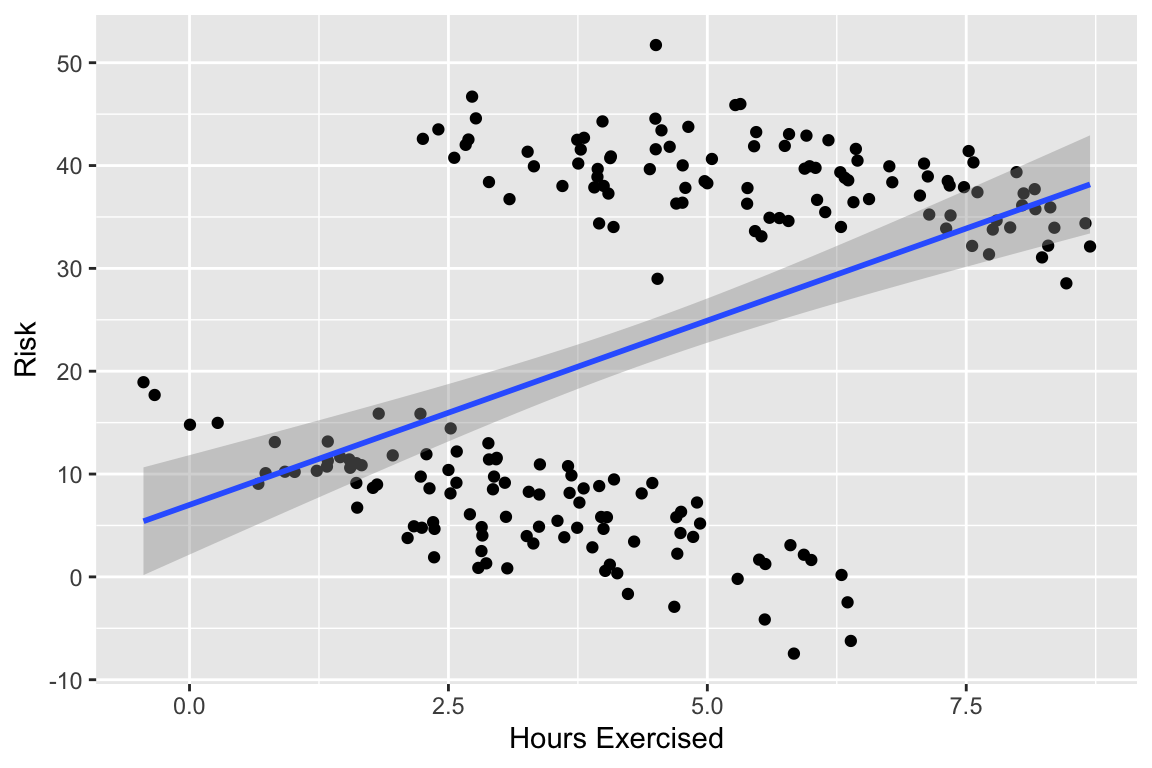
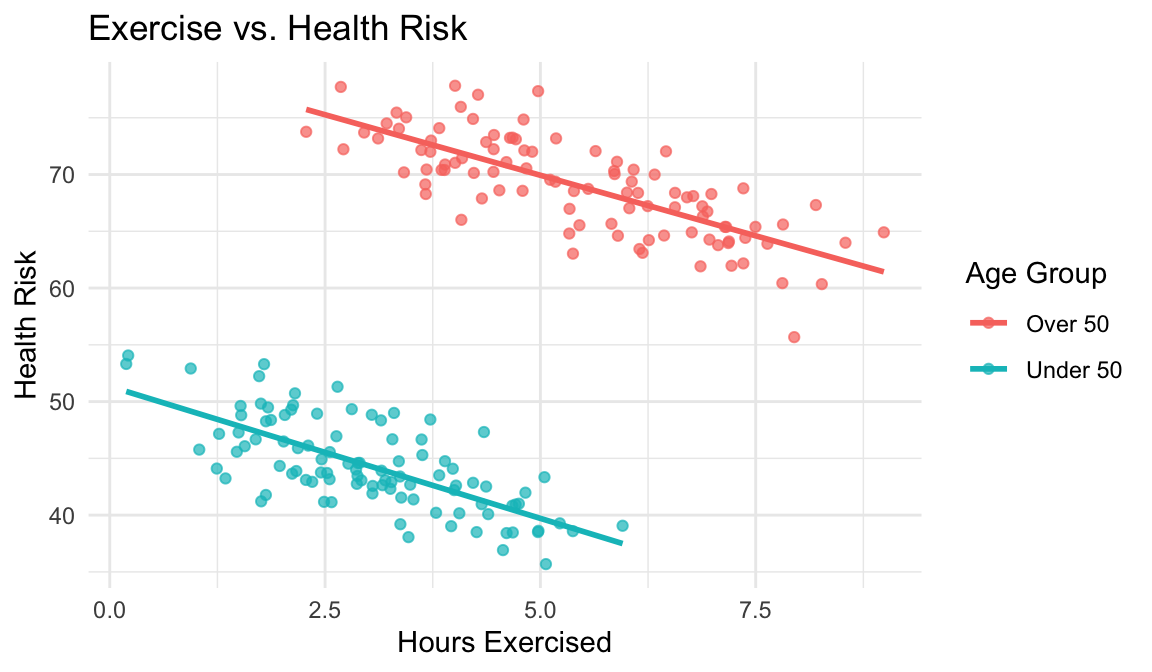
upload 5

diff --git a/docs/ObservationalStudies.html b/docs/ObservationalStudies.html
@@ -124,20 +124,21 @@ pre > code.sourceCode > span > a:first-child::before { text-decoration: underlin
   <li><a href="#relationships-between-variables" id="toc-relationships-between-variables" class="nav-link" data-scroll-target="#relationships-between-variables"><strong>3. Relationships Between Variables</strong></a></li>
   <li><a href="#modelling" id="toc-modelling" class="nav-link" data-scroll-target="#modelling"><strong>4. Modelling</strong></a></li>
   </ul></li>
-  <li><a href="#example-2-does-working-out-increase-energy-levels" id="toc-example-2-does-working-out-increase-energy-levels" class="nav-link" data-scroll-target="#example-2-does-working-out-increase-energy-levels">Example 2: Does working out increase energy levels?</a></li>
+  <li><a href="#example-2-does-working-out-increase-energy-levels" id="toc-example-2-does-working-out-increase-energy-levels" class="nav-link" data-scroll-target="#example-2-does-working-out-increase-energy-levels">Example 2: Does working out increase energy levels?</a>
+  <ul class="collapse">
   <li><a href="#confounding-variables" id="toc-confounding-variables" class="nav-link" data-scroll-target="#confounding-variables">Confounding variables</a></li>
-  <li><a href="#example-3" id="toc-example-3" class="nav-link" data-scroll-target="#example-3">Example 3</a>
+  </ul></li>
+  <li><a href="#example-3-pancreatic-cancer-study" id="toc-example-3-pancreatic-cancer-study" class="nav-link" data-scroll-target="#example-3-pancreatic-cancer-study">Example 3: Pancreatic Cancer Study</a>
   <ul class="collapse">
   <li><a href="#reducing-confounding-matching" id="toc-reducing-confounding-matching" class="nav-link" data-scroll-target="#reducing-confounding-matching">Reducing confounding: Matching</a></li>
   <li><a href="#reducing-confounding-multiple-regression" id="toc-reducing-confounding-multiple-regression" class="nav-link" data-scroll-target="#reducing-confounding-multiple-regression">Reducing confounding: Multiple Regression</a></li>
   </ul></li>
-  <li><a href="#conditional-probability" id="toc-conditional-probability" class="nav-link" data-scroll-target="#conditional-probability">Conditional Probability</a></li>
-  <li><a href="#conditional-probability-1" id="toc-conditional-probability-1" class="nav-link" data-scroll-target="#conditional-probability-1">Conditional Probability</a></li>
+  <li><a href="#example-4-restaurant-reviews" id="toc-example-4-restaurant-reviews" class="nav-link" data-scroll-target="#example-4-restaurant-reviews">Example 4: Restaurant Reviews</a></li>
   <li><a href="#whats-going-on" id="toc-whats-going-on" class="nav-link" data-scroll-target="#whats-going-on">What’s going on?</a></li>
-  <li><a href="#simpsons-paradox-correlation-reversal" id="toc-simpsons-paradox-correlation-reversal" class="nav-link" data-scroll-target="#simpsons-paradox-correlation-reversal">Simpsons’ Paradox: Correlation Reversal</a></li>
-  <li><a href="#example-continued" id="toc-example-continued" class="nav-link" data-scroll-target="#example-continued">Example Continued</a></li>
-  <li><a href="#resolving-the-paradox" id="toc-resolving-the-paradox" class="nav-link" data-scroll-target="#resolving-the-paradox">Resolving the Paradox</a></li>
-  <li><a href="#resolving-the-paradox-1" id="toc-resolving-the-paradox-1" class="nav-link" data-scroll-target="#resolving-the-paradox-1">Resolving the Paradox</a></li>
+  <li><a href="#example-5-exercise-and-disease" id="toc-example-5-exercise-and-disease" class="nav-link" data-scroll-target="#example-5-exercise-and-disease">Example 5: Exercise and Disease</a>
+  <ul class="collapse">
+  <li><a href="#explanation-of-the-paradox" id="toc-explanation-of-the-paradox" class="nav-link" data-scroll-target="#explanation-of-the-paradox">Explanation of the Paradox:</a></li>
+  </ul></li>
   </ul>
 </nav>
     </div>
@@ -204,6 +205,7 @@ pre > code.sourceCode > span > a:first-child::before { text-decoration: underlin
 </section>
 <section id="example-1-student-happiness" class="level2">
 <h2 class="anchored" data-anchor-id="example-1-student-happiness">Example 1: Student Happiness</h2>
+<p>The <code>gcfeeling</code> data contains results of a survey conducted by Georgetown College students on 47 Georgetown College upper-class students in relation to feelings about Georgetown College.</p>
 <div class="cell">
 <div class="sourceCode cell-code" id="cb1"><pre class="sourceCode r code-with-copy"><code class="sourceCode r"><span id="cb1-1"><a href="#cb1-1" aria-hidden="true" tabindex="-1"></a><span class="co"># Load necessary packages</span></span>
 <span id="cb1-2"><a href="#cb1-2" aria-hidden="true" tabindex="-1"></a><span class="fu">library</span>(tidyverse)</span>
@@ -227,7 +229,7 @@ $ happier      &lt;fct&gt; NO, YES, YES, YES, YES, YES, YES, NO, YES, NO, YES, Y
 </div>
 <section id="exploring-categorical-variables" class="level3">
 <h3 class="anchored" data-anchor-id="exploring-categorical-variables"><strong>1. Exploring Categorical Variables</strong></h3>
-<p>If <code>gcfeeling</code> contains categorical variables, we can visualize their distributions:</p>
+<p><code>gcfeeling</code> contains categorical variables. We can visualize their distributions:</p>
 <div class="cell">
 <div class="sourceCode cell-code" id="cb3"><pre class="sourceCode r code-with-copy"><code class="sourceCode r"><span id="cb3-1"><a href="#cb3-1" aria-hidden="true" tabindex="-1"></a><span class="co"># Count and visualize categorical variables</span></span>
 <span id="cb3-2"><a href="#cb3-2" aria-hidden="true" tabindex="-1"></a>gcfeeling <span class="sc">%&gt;%</span></span>
@@ -249,6 +251,7 @@ $ happier      &lt;fct&gt; NO, YES, YES, YES, YES, YES, YES, NO, YES, NO, YES, Y
 </section>
 <section id="exploring-numeric-variables" class="level3">
 <h3 class="anchored" data-anchor-id="exploring-numeric-variables"><strong>2. Exploring Numeric Variables</strong></h3>
+<p><code>gcfeeling</code> contains numeric variables. We can visualize their distributions:</p>
 <div class="cell">
 <div class="sourceCode cell-code" id="cb4"><pre class="sourceCode r code-with-copy"><code class="sourceCode r"><span id="cb4-1"><a href="#cb4-1" aria-hidden="true" tabindex="-1"></a><span class="co"># Check numeric variable distributions</span></span>
 <span id="cb4-2"><a href="#cb4-2" aria-hidden="true" tabindex="-1"></a>gcfeeling <span class="sc">%&gt;%</span></span>
@@ -268,38 +271,36 @@ $ happier      &lt;fct&gt; NO, YES, YES, YES, YES, YES, YES, NO, YES, NO, YES, Y
 </section>
 <section id="relationships-between-variables" class="level3">
 <h3 class="anchored" data-anchor-id="relationships-between-variables"><strong>3. Relationships Between Variables</strong></h3>
+<section id="contingency-table-for-categorical-variables" class="level4">
+<h4 class="anchored" data-anchor-id="contingency-table-for-categorical-variables"><strong>Contingency Table (For Categorical Variables)</strong></h4>
+<p>A contingency table shows the relationship between two categorical variables by displaying their frequency distribution.</p>
+<div class="cell">
+<div class="sourceCode cell-code" id="cb5"><pre class="sourceCode r code-with-copy"><code class="sourceCode r"><span id="cb5-1"><a href="#cb5-1" aria-hidden="true" tabindex="-1"></a>gcfeeling <span class="sc">%&gt;%</span></span>
+<span id="cb5-2"><a href="#cb5-2" aria-hidden="true" tabindex="-1"></a>  <span class="fu">select</span>(happier, athlete) <span class="sc">%&gt;%</span> </span>
+<span id="cb5-3"><a href="#cb5-3" aria-hidden="true" tabindex="-1"></a>  <span class="fu">table</span>()</span></code><button title="Copy to Clipboard" class="code-copy-button"><i class="bi"></i></button></pre></div>
+<div class="cell-output cell-output-stdout">
+<pre><code>       athlete
+happier  n  y
+    NO  10  1
+    YES 25 11</code></pre>
+</div>
+</div>
+</section>
 <section id="pairwise-correlation-for-numeric-variables" class="level4">
 <h4 class="anchored" data-anchor-id="pairwise-correlation-for-numeric-variables"><strong>Pairwise Correlation (For Numeric Variables)</strong></h4>
 <div class="cell">
-<div class="sourceCode cell-code" id="cb5"><pre class="sourceCode r code-with-copy"><code class="sourceCode r"><span id="cb5-1"><a href="#cb5-1" aria-hidden="true" tabindex="-1"></a><span class="co"># Compute correlation matrix</span></span>
-<span id="cb5-2"><a href="#cb5-2" aria-hidden="true" tabindex="-1"></a><span class="fu">cor</span>(gcfeeling<span class="sc">$</span>rating.fresh, gcfeeling<span class="sc">$</span>rating.js)</span></code><button title="Copy to Clipboard" class="code-copy-button"><i class="bi"></i></button></pre></div>
+<div class="sourceCode cell-code" id="cb7"><pre class="sourceCode r code-with-copy"><code class="sourceCode r"><span id="cb7-1"><a href="#cb7-1" aria-hidden="true" tabindex="-1"></a><span class="co"># Compute correlation matrix</span></span>
+<span id="cb7-2"><a href="#cb7-2" aria-hidden="true" tabindex="-1"></a><span class="fu">cor</span>(gcfeeling<span class="sc">$</span>rating.fresh, gcfeeling<span class="sc">$</span>rating.js)</span></code><button title="Copy to Clipboard" class="code-copy-button"><i class="bi"></i></button></pre></div>
 <div class="cell-output cell-output-stdout">
 <pre><code>[1] 0.402741</code></pre>
 </div>
 </div>
 </section>
 <section id="scatterplots-for-numeric-variables" class="level4">
-<h4 class="anchored" data-anchor-id="scatterplots-for-numeric-variables"><strong>Scatterplots for Numeric Variables</strong></h4>
+<h4 class="anchored" data-anchor-id="scatterplots-for-numeric-variables"><strong>Scatterplots (For Numeric Variables)</strong></h4>
 <div class="cell">
-<div class="sourceCode cell-code" id="cb7"><pre class="sourceCode r code-with-copy"><code class="sourceCode r"><span id="cb7-1"><a href="#cb7-1" aria-hidden="true" tabindex="-1"></a><span class="fu">ggplot</span>(gcfeeling, <span class="fu">aes</span>(<span class="at">x =</span> rating.fresh, <span class="at">y =</span> rating.js)) <span class="sc">+</span></span>
-<span id="cb7-2"><a href="#cb7-2" aria-hidden="true" tabindex="-1"></a>  <span class="fu">geom_point</span>()</span></code><button title="Copy to Clipboard" class="code-copy-button"><i class="bi"></i></button></pre></div>
-<div class="cell-output-display">
-<div>
-<figure class="figure">
-<p><img src="ObservationalStudies_files/figure-html/unnamed-chunk-5-1.png" class="img-fluid figure-img" width="672"></p>
-</figure>
-</div>
-</div>
-</div>
-</section>
-<section id="boxplots-of-numerical-variables-by-categories" class="level4">
-<h4 class="anchored" data-anchor-id="boxplots-of-numerical-variables-by-categories"><strong>Boxplots of Numerical Variables by Categories</strong></h4>
-<div class="cell">
-<div class="sourceCode cell-code" id="cb8"><pre class="sourceCode r code-with-copy"><code class="sourceCode r"><span id="cb8-1"><a href="#cb8-1" aria-hidden="true" tabindex="-1"></a><span class="co"># Boxplots grouped by a categorical variable (assuming `groupvar` is categorical)</span></span>
-<span id="cb8-2"><a href="#cb8-2" aria-hidden="true" tabindex="-1"></a>gcfeeling <span class="sc">%&gt;%</span></span>
-<span id="cb8-3"><a href="#cb8-3" aria-hidden="true" tabindex="-1"></a>  <span class="fu">ggplot</span>(<span class="fu">aes</span>(<span class="at">x =</span> athlete, <span class="at">y =</span> rating.js)) <span class="sc">+</span></span>
-<span id="cb8-4"><a href="#cb8-4" aria-hidden="true" tabindex="-1"></a>  <span class="fu">geom_boxplot</span>() <span class="sc">+</span></span>
-<span id="cb8-5"><a href="#cb8-5" aria-hidden="true" tabindex="-1"></a>  <span class="fu">theme_minimal</span>()</span></code><button title="Copy to Clipboard" class="code-copy-button"><i class="bi"></i></button></pre></div>
+<div class="sourceCode cell-code" id="cb9"><pre class="sourceCode r code-with-copy"><code class="sourceCode r"><span id="cb9-1"><a href="#cb9-1" aria-hidden="true" tabindex="-1"></a><span class="fu">ggplot</span>(gcfeeling, <span class="fu">aes</span>(<span class="at">x =</span> rating.fresh, <span class="at">y =</span> rating.js)) <span class="sc">+</span></span>
+<span id="cb9-2"><a href="#cb9-2" aria-hidden="true" tabindex="-1"></a>  <span class="fu">geom_point</span>()</span></code><button title="Copy to Clipboard" class="code-copy-button"><i class="bi"></i></button></pre></div>
 <div class="cell-output-display">
 <div>
 <figure class="figure">
@@ -309,11 +310,29 @@ $ happier      &lt;fct&gt; NO, YES, YES, YES, YES, YES, YES, NO, YES, NO, YES, Y
 </div>
 </div>
 </section>
+<section id="boxplots-of-numerical-variables-by-categories" class="level4">
+<h4 class="anchored" data-anchor-id="boxplots-of-numerical-variables-by-categories"><strong>Boxplots of Numerical Variables by Categories</strong></h4>
+<div class="cell">
+<div class="sourceCode cell-code" id="cb10"><pre class="sourceCode r code-with-copy"><code class="sourceCode r"><span id="cb10-1"><a href="#cb10-1" aria-hidden="true" tabindex="-1"></a><span class="co"># Boxplots grouped by a categorical variable (assuming `groupvar` is categorical)</span></span>
+<span id="cb10-2"><a href="#cb10-2" aria-hidden="true" tabindex="-1"></a>gcfeeling <span class="sc">%&gt;%</span></span>
+<span id="cb10-3"><a href="#cb10-3" aria-hidden="true" tabindex="-1"></a>  <span class="fu">ggplot</span>(<span class="fu">aes</span>(<span class="at">x =</span> athlete, <span class="at">y =</span> rating.js)) <span class="sc">+</span></span>
+<span id="cb10-4"><a href="#cb10-4" aria-hidden="true" tabindex="-1"></a>  <span class="fu">geom_boxplot</span>() <span class="sc">+</span></span>
+<span id="cb10-5"><a href="#cb10-5" aria-hidden="true" tabindex="-1"></a>  <span class="fu">theme_minimal</span>()</span></code><button title="Copy to Clipboard" class="code-copy-button"><i class="bi"></i></button></pre></div>
+<div class="cell-output-display">
+<div>
+<figure class="figure">
+<p><img src="ObservationalStudies_files/figure-html/unnamed-chunk-7-1.png" class="img-fluid figure-img" width="672"></p>
+</figure>
+</div>
+</div>
+</div>
+</section>
 </section>
 <section id="modelling" class="level3">
 <h3 class="anchored" data-anchor-id="modelling"><strong>4. Modelling</strong></h3>
+<p>We can use multiple regression to model student happiness.</p>
 <div class="cell">
-<div class="sourceCode cell-code" id="cb9"><pre class="sourceCode r code-with-copy"><code class="sourceCode r"><span id="cb9-1"><a href="#cb9-1" aria-hidden="true" tabindex="-1"></a><span class="fu">lm</span>(rating.js <span class="sc">~</span> rating.fresh <span class="sc">+</span> athlete <span class="sc">+</span> greek, <span class="at">data =</span> gcfeeling)</span></code><button title="Copy to Clipboard" class="code-copy-button"><i class="bi"></i></button></pre></div>
+<div class="sourceCode cell-code" id="cb11"><pre class="sourceCode r code-with-copy"><code class="sourceCode r"><span id="cb11-1"><a href="#cb11-1" aria-hidden="true" tabindex="-1"></a><span class="fu">lm</span>(rating.js <span class="sc">~</span> rating.fresh <span class="sc">+</span> athlete <span class="sc">+</span> greek, <span class="at">data =</span> gcfeeling)</span></code><button title="Copy to Clipboard" class="code-copy-button"><i class="bi"></i></button></pre></div>
 <div class="cell-output cell-output-stdout">
 <pre><code>
 Call:
@@ -342,14 +361,14 @@ Coefficients:
 <li><p>This is known as <strong>confounding</strong>.</p></li>
 <li><p>This study allows us to make correlation statements. But, we cannot make a causal statement attributing increased energy levels to working out!</p></li>
 </ul>
-</section>
-<section id="confounding-variables" class="level2">
-<h2 class="anchored" data-anchor-id="confounding-variables">Confounding variables</h2>
+<section id="confounding-variables" class="level3">
+<h3 class="anchored" data-anchor-id="confounding-variables">Confounding variables</h3>
 <p><strong>Confounding variables:</strong> Extraneous variables that affect both the exposure (e.g., working out) and the outcome variables (e.g., increased energy), and that make it seem like there is a relationship between them are called confounding variables.</p>
 <p><img src="images/Confounding.jpg" class="img-fluid"></p>
 </section>
-<section id="example-3" class="level2">
-<h2 class="anchored" data-anchor-id="example-3">Example 3</h2>
+</section>
+<section id="example-3-pancreatic-cancer-study" class="level2">
+<h2 class="anchored" data-anchor-id="example-3-pancreatic-cancer-study">Example 3: Pancreatic Cancer Study</h2>
 <p>Many years ago, investigators reported an association between coffee drinking and pancreatic cancer in an observational study (<em>MacMahon B, Yen S, Trichopoulos D, Warren K, Nardi G. Coffee and cancer of the pancreas. N Eng J Med 1981; 304: 630-3</em>).</p>
 <p><img src="images/Confounding3.png" class="img-fluid"></p>
 <p>If we take coffee as our exposure of interest and correlate it with an increased development of pancreatic cancer there is the potential, as was the case with these investigators, to be misled if there is a third causal factor, such as cigarette smoking, that was more common among those who reported drinking coffee.</p>
@@ -375,8 +394,8 @@ Coefficients:
 </ul>
 </section>
 </section>
-<section id="conditional-probability" class="level2">
-<h2 class="anchored" data-anchor-id="conditional-probability">Conditional Probability</h2>
+<section id="example-4-restaurant-reviews" class="level2">
+<h2 class="anchored" data-anchor-id="example-4-restaurant-reviews">Example 4: Restaurant Reviews</h2>
 <p>You and your friend are trying to find the perfect restaurant for dinner. You can’t decide so you want to instead rely on some observational data (i.e., restaurant reviews).</p>
 <p>You find two worthy restaurants, Carla’s and Sophia’s each with 400 reviews and an indicator of whether the restaurant is recommended or not recommended.</p>
 <p>You find that</p>
@@ -385,11 +404,11 @@ Coefficients:
 <li><p>recommended for Carla’s = 216/400</p></li>
 </ul>
 <p>So what we have is a conditional probability:</p>
-<p>p(recommended|Sophia’s) = 62.5%</p>
-<p>p(recommended|Carla’s) = 54%</p>
-</section>
-<section id="conditional-probability-1" class="level2">
-<h2 class="anchored" data-anchor-id="conditional-probability-1">Conditional Probability</h2>
+<ul>
+<li><p>p(recommended|Sophia’s) = 62.5%</p></li>
+<li><p>p(recommended|Carla’s) = 54%</p></li>
+</ul>
+<hr>
 <p>What if we consider age as a factor here?</p>
 <ul>
 <li><p>recommended for 18-35 yr old diners at Sophia’s = 50/150</p></li>
@@ -398,32 +417,21 @@ Coefficients:
 <li><p>recommended for 35+ diners at Carla’s = 36/40</p></li>
 </ul>
 <p>So what we have is:</p>
-<p>p(recommended|Sophia’s, younger) = 30%</p>
-<p>p(recommended|Sophia’s, older) = 80%</p>
-<p>p(recommended|Carla’s, younger) = 50%</p>
-<p>p(recommended|Carla’s, older) = 90%</p>
+<ul>
+<li><p>p(recommended|Sophia’s, younger) = 30%</p></li>
+<li><p>p(recommended|Sophia’s, older) = 80%</p></li>
+<li><p>p(recommended|Carla’s, younger) = 50%</p></li>
+<li><p>p(recommended|Carla’s, older) = 90%</p></li>
+</ul>
 </section>
 <section id="whats-going-on" class="level2">
 <h2 class="anchored" data-anchor-id="whats-going-on">What’s going on?</h2>
 <p>You have unknowingly entered the world of Simpson’s Paradox, where a restaurant can be both better and worse than its competitor, exercise can lower and increase the risk of disease, and the same dataset can be used to prove two opposing arguments. Instead of going out to dinner, perhaps you and your friend should spend the evening discussing this fascinating statistical phenomenon.</p>
 <p><strong>Simpson’s Paradox occurs when trends that appear when a dataset is separated into groups reverse when the data are aggregated.</strong></p>
 </section>
-<section id="simpsons-paradox-correlation-reversal" class="level2">
-<h2 class="anchored" data-anchor-id="simpsons-paradox-correlation-reversal">Simpsons’ Paradox: Correlation Reversal</h2>
-<p>Say we have data on the number of hours of exercise per week versus the risk of developing a disease for two sets of patients, those below the age of 50 and those over the age of 50. Here are individual plots showing the relationship between exercise and risk of disease.</p>
-<div class="cell">
-<div class="cell-output-display">
-<div>
-<figure class="figure">
-<p><img src="ObservationalStudies_files/figure-html/unnamed-chunk-8-1.png" class="img-fluid figure-img" width="576"></p>
-</figure>
-</div>
-</div>
-</div>
-</section>
-<section id="example-continued" class="level2">
-<h2 class="anchored" data-anchor-id="example-continued">Example Continued</h2>
-<p>We clearly saw a negative correlation, indicating that increased levels of exercise per week are correlated with a lower risk of developing the disease for both groups. Now, let’s combine the data together on a single plot:</p>
+<section id="example-5-exercise-and-disease" class="level2">
+<h2 class="anchored" data-anchor-id="example-5-exercise-and-disease">Example 5: Exercise and Disease</h2>
+<p>Say we have (made up) data on the number of hours of exercise per week versus the risk of developing a disease for two sets of patients, those below the age of 50 and those over the age of 50. Here are individual plots showing the relationship between exercise and risk of disease.</p>
 <div class="cell">
 <div class="cell-output-display">
 <div>
@@ -433,28 +441,44 @@ Coefficients:
 </div>
 </div>
 </div>
-</section>
-<section id="resolving-the-paradox" class="level2">
-<h2 class="anchored" data-anchor-id="resolving-the-paradox">Resolving the Paradox</h2>
-<p>To avoid Simpson’s Paradox leading us to two opposite conclusions, we need to choose to segregate the data in groups or aggregate it together. That seems simple enough, but how do we decide which to do?</p>
-<p>The answer is to think causally: how was the data generated and based on this, what factors influence the results that we are not shown?</p>
-<p>In the exercise vs disease example, we intuitively know that exercise is not the only factor affecting the risk of developing a disease. In the data, there are two different causes of disease yet by aggregating the data and looking at only risk vs exercise, we ignore the second cause - age - completely.</p>
-</section>
-<section id="resolving-the-paradox-1" class="level2">
-<h2 class="anchored" data-anchor-id="resolving-the-paradox-1">Resolving the Paradox</h2>
-<p>If we go ahead and plot risk vs age, we can see that the age of the patient is strongly positively correlated with disease risk.</p>
+<p>We clearly see a negative correlation, indicating that increased levels of exercise per week are correlated with a lower risk of developing the disease for both groups. Now, let’s combine the data together on a single plot:</p>
 <div class="cell">
 <div class="cell-output-display">
 <div>
 <figure class="figure">
-<p><img src="ObservationalStudies_files/figure-html/unnamed-chunk-10-1.png" class="img-fluid figure-img" width="384"></p>
+<p><img src="ObservationalStudies_files/figure-html/unnamed-chunk-10-1.png" class="img-fluid figure-img" width="576"></p>
 </figure>
 </div>
 </div>
 </div>
-<p>As the patient increases in age, their risk of the disease increases which means older patients are more likely to develop the disease than younger patients even with the same amount of exercise. Therefore, to assess the effect of just exercise on disease, we would want to hold the age constant and change the amount of weekly exercise.</p>
+<p>❌ Surprise! The overall correlation is positive: More exercise → Higher risk.</p>
+<section id="explanation-of-the-paradox" class="level3">
+<h3 class="anchored" data-anchor-id="explanation-of-the-paradox">Explanation of the Paradox:</h3>
+<p>Within each age group: More exercise is associated with lower risk (negative correlation).</p>
+<p>Across both groups: Older individuals exercise more…</p>
+<div class="cell">
+<div class="cell-output-display">
+<div>
+<figure class="figure">
+<p><img src="ObservationalStudies_files/figure-html/unnamed-chunk-11-1.png" class="img-fluid figure-img" width="384"></p>
+</figure>
+</div>
+</div>
+</div>
+<p>…but have higher baseline risk due to age.</p>
+<div class="cell">
+<div class="cell-output-display">
+<div>
+<figure class="figure">
+<p><img src="ObservationalStudies_files/figure-html/unnamed-chunk-12-1.png" class="img-fluid figure-img" width="384"></p>
+</figure>
+</div>
+</div>
+</div>
+<p>When aggregated, the higher risk of the older group skews the data, making it seem like more exercise increases risk. This is Simpson’s Paradox — where a trend appears in subgroups but reverses when the data is combined!</p>
 
 
+</section>
 </section>
 
 </main> <!-- /main -->

diff --git a/docs/index.html b/docs/index.html
@@ -120,6 +120,7 @@ ul.task-list li input[type="checkbox"] {
 <p>2: <a href="https://ncahill89.github.io/DS152/2-Correlation.html">Correlation (and Causation)</a></p>
 <p>3: <a href="https://ncahill89.github.io/DS152/3-MultipleRegression.html">Multiple Regression Models</a></p>
 <p>4: <a href="https://ncahill89.github.io/DS152/4-sampling.html">Sampling Principles and Strategies</a></p>
+<p>5: <a href="https://ncahill89.github.io/DS152/5-ObservationalStudies.html">Observational Studies</a></p>
 </section>
 <section id="tutorial-sheets" class="level2">
 <h2 class="anchored" data-anchor-id="tutorial-sheets">Tutorial Sheets</h2>
